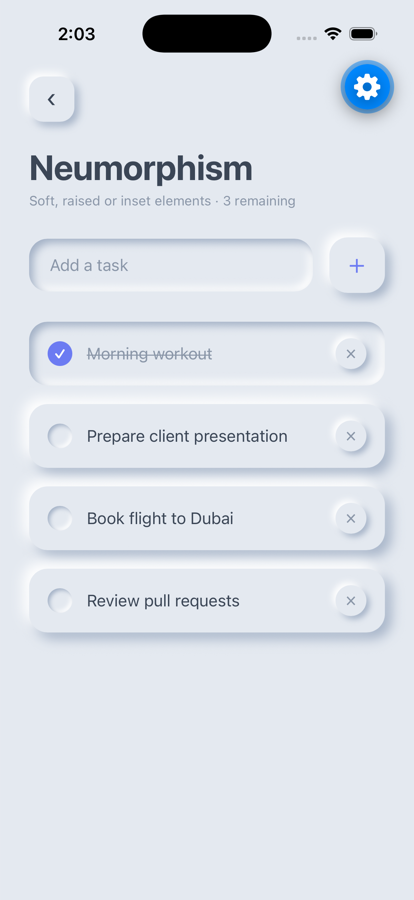
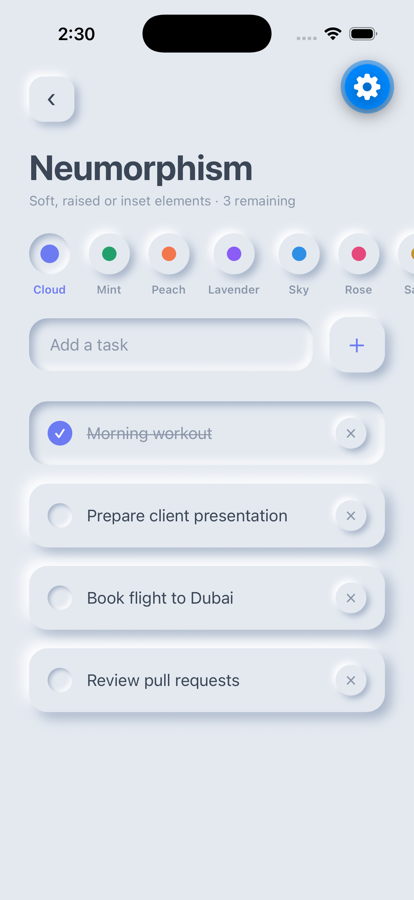
Add 8 color themes to the Neumorphism screen
Add a color picker with Cloud, Mint, Peach, Lavender, Sky, Rose, Sand and Midnight (dark) themes, and document them in the README with screenshots.

diff --git a/mobile/src/designs/Neumorphism.js b/mobile/src/designs/Neumorphism.js
@@ -1,31 +1,37 @@
 // NEUMORPHISM: every element shares the background color; shape comes only from shadows.
 // Raised = light highlight top-left + dark shadow bottom-right
 // Inset  = the same two shadows drawn inside (pressed in)
-import { ActivityIndicator, FlatList, Pressable, StyleSheet, Text, TextInput, View } from 'react-native';
+import { useMemo, useState } from 'react';
+import { ActivityIndicator, FlatList, Pressable, ScrollView, StyleSheet, Text, TextInput, View } from 'react-native';
 import { SafeAreaView } from 'react-native-safe-area-context';
 import { StatusBar } from 'expo-status-bar';
 
-const C = {
-  bg: '#E4E9F0',
-  light: '#FFFFFF',
-  dark: '#A3B1C6',
-  text: '#3B4656',
-  muted: '#8A96A8',
-  accent: '#6C7BF2',
-  error: '#D14343',
-};
+// Each theme needs a background plus a lighter and a darker shade of it for the two shadows.
+export const NEU_THEMES = [
+  { id: 'cloud', name: 'Cloud', bg: '#E4E9F0', light: '#FFFFFF', dark: '#A3B1C6', text: '#3B4656', muted: '#8A96A8', accent: '#6C7BF2' },
+  { id: 'mint', name: 'Mint', bg: '#DDF0E7', light: '#FFFFFF', dark: '#A3C7B6', text: '#2F4F45', muted: '#7A9C8F', accent: '#22A06B' },
+  { id: 'peach', name: 'Peach', bg: '#F6E4D9', light: '#FFFFFF', dark: '#D1B2A0', text: '#5A3E33', muted: '#A3887A', accent: '#F2774B' },
+  { id: 'lavender', name: 'Lavender', bg: '#E8E4F3', light: '#FFFFFF', dark: '#B8AFD1', text: '#423A5C', muted: '#8F87A8', accent: '#8B5CF6' },
+  { id: 'sky', name: 'Sky', bg: '#DCEAF6', light: '#FFFFFF', dark: '#A5BDD3', text: '#2C4459', muted: '#7C93A8', accent: '#2F8FE5' },
+  { id: 'rose', name: 'Rose', bg: '#F5E2E7', light: '#FFFFFF', dark: '#CFAEB8', text: '#5A3442', muted: '#A58592', accent: '#E5487A' },
+  { id: 'sand', name: 'Sand', bg: '#EFE9DD', light: '#FFFFFF', dark: '#C8BEA8', text: '#4D4537', muted: '#998F7B', accent: '#C4922A' },
+  { id: 'midnight', name: 'Midnight', bg: '#2A2E37', light: '#363B47', dark: '#1B1E24', text: '#E4E7EE', muted: '#8A91A0', accent: '#7C8CFF', isDark: true },
+];
 
-const raised = (d = 6) => ({
-  boxShadow: `${-d}px ${-d}px ${d * 2}px ${C.light}, ${d}px ${d}px ${d * 2}px ${C.dark}`,
-});
-const inset = (d = 4) => ({
-  boxShadow: `inset ${d}px ${d}px ${d * 2}px ${C.dark}, inset ${-d}px ${-d}px ${d * 2}px ${C.light}`,
+const makeShadows = (t) => ({
+  raised: (d = 6) => ({ boxShadow: `${-d}px ${-d}px ${d * 2}px ${t.light}, ${d}px ${d}px ${d * 2}px ${t.dark}` }),
+  inset: (d = 4) => ({ boxShadow: `inset ${d}px ${d}px ${d * 2}px ${t.dark}, inset ${-d}px ${-d}px ${d * 2}px ${t.light}` }),
 });
 
 export default function Neumorphism({ todos, text, setText, loading, error, addTodo, toggleTodo, deleteTodo, remaining, name, tagline, onBack }) {
+  const [themeId, setThemeId] = useState('cloud');
+  const t = NEU_THEMES.find((x) => x.id === themeId) ?? NEU_THEMES[0];
+  const { raised, inset } = useMemo(() => makeShadows(t), [t]);
+  const styles = useMemo(() => makeStyles(t, inset), [t, inset]);
+
   return (
     <SafeAreaView style={styles.container}>
-      <StatusBar style="dark" />
+      <StatusBar style={t.isDark ? 'light' : 'dark'} />
 
       <View style={styles.topRow}>
         <Pressable onPress={onBack}>
@@ -42,13 +48,28 @@ export default function Neumorphism({ todos, text, setText, loading, error, addT
         <Text style={styles.count}>{tagline} · {remaining} remaining</Text>
       </View>
 
+      {/* Color theme picker: the selected swatch is pressed in */}
+      <ScrollView horizontal showsHorizontalScrollIndicator={false} style={styles.themesBar} contentContainerStyle={styles.themes}>
+        {NEU_THEMES.map((theme) => {
+          const selected = theme.id === t.id;
+          return (
+            <Pressable key={theme.id} onPress={() => setThemeId(theme.id)} style={styles.themeItem}>
+              <View style={[styles.swatch, selected ? inset(3) : raised(4)]}>
+                <View style={[styles.swatchDot, { backgroundColor: theme.accent }, selected && styles.swatchDotSelected]} />
+              </View>
+              <Text style={[styles.themeName, selected && { color: t.accent }]}>{theme.name}</Text>
+            </Pressable>
+          );
+        })}
+      </ScrollView>
+
       <View style={styles.inputRow}>
         <TextInput
           style={styles.input}
           value={text}
           onChangeText={setText}
           placeholder="Add a task"
-          placeholderTextColor={C.muted}
+          placeholderTextColor={t.muted}
           returnKeyType="done"
           onSubmitEditing={addTodo}
         />
@@ -64,7 +85,7 @@ export default function Neumorphism({ todos, text, setText, loading, error, addT
       {error && <Text style={styles.error}>{error}</Text>}
 
       {loading ? (
-        <ActivityIndicator color={C.muted} style={{ marginTop: 32 }} />
+        <ActivityIndicator color={t.muted} style={{ marginTop: 32 }} />
       ) : (
         <FlatList
           data={todos}
@@ -96,28 +117,36 @@ export default function Neumorphism({ todos, text, setText, loading, error, addT
   );
 }
 
-const styles = StyleSheet.create({
-  container: { flex: 1, backgroundColor: C.bg },
-  topRow: { paddingHorizontal: 28, paddingTop: 12 },
-  backBtn: { width: 44, height: 44, borderRadius: 14, backgroundColor: C.bg, alignItems: 'center', justifyContent: 'center' },
-  backText: { fontSize: 26, color: C.text, marginTop: -3 },
-  header: { marginTop: 24, marginBottom: 28, paddingHorizontal: 28 },
-  heading: { fontSize: 34, fontWeight: '700', color: C.text, letterSpacing: -0.5 },
-  count: { fontSize: 13, color: C.muted, marginTop: 4 },
-  inputRow: { flexDirection: 'row', alignItems: 'center', gap: 16, paddingHorizontal: 28, marginBottom: 6 },
-  input: { flex: 1, fontSize: 16, color: C.text, backgroundColor: C.bg, paddingVertical: 16, paddingHorizontal: 20, borderRadius: 18, ...inset(4) },
-  addBtn: { width: 54, height: 54, borderRadius: 18, backgroundColor: C.bg, alignItems: 'center', justifyContent: 'center' },
-  addText: { fontSize: 28, color: C.accent, fontWeight: '300', marginTop: -2 },
-  error: { color: C.error, fontSize: 13, marginBottom: 8, paddingHorizontal: 28 },
-  list: { paddingHorizontal: 28, paddingTop: 22, paddingBottom: 40, gap: 18 },
-  item: { flexDirection: 'row', alignItems: 'center', backgroundColor: C.bg, borderRadius: 18, paddingVertical: 16, paddingHorizontal: 18 },
-  itemMain: { flex: 1, flexDirection: 'row', alignItems: 'center', gap: 14 },
-  check: { width: 24, height: 24, borderRadius: 12, backgroundColor: C.bg, alignItems: 'center', justifyContent: 'center' },
-  checkDone: { backgroundColor: C.accent },
-  checkMark: { color: '#FFFFFF', fontSize: 13, fontWeight: '700' },
-  title: { flex: 1, fontSize: 16, color: C.text },
-  titleDone: { color: C.muted, textDecorationLine: 'line-through' },
-  deleteBtn: { width: 30, height: 30, borderRadius: 15, backgroundColor: C.bg, alignItems: 'center', justifyContent: 'center', marginLeft: 12 },
-  delete: { fontSize: 18, color: C.muted, marginTop: -2 },
-  empty: { textAlign: 'center', color: C.muted, marginTop: 48, fontSize: 15 },
-});
+const makeStyles = (t, inset) =>
+  StyleSheet.create({
+    container: { flex: 1, backgroundColor: t.bg },
+    topRow: { paddingHorizontal: 28, paddingTop: 12 },
+    backBtn: { width: 44, height: 44, borderRadius: 14, backgroundColor: t.bg, alignItems: 'center', justifyContent: 'center' },
+    backText: { fontSize: 26, color: t.text, marginTop: -3 },
+    header: { marginTop: 24, marginBottom: 8, paddingHorizontal: 28 },
+    heading: { fontSize: 34, fontWeight: '700', color: t.text, letterSpacing: -0.5 },
+    count: { fontSize: 13, color: t.muted, marginTop: 4 },
+    themesBar: { flexGrow: 0 },
+    themes: { paddingHorizontal: 28, paddingVertical: 16, gap: 18 },
+    themeItem: { alignItems: 'center', gap: 8 },
+    swatch: { width: 40, height: 40, borderRadius: 20, backgroundColor: t.bg, alignItems: 'center', justifyContent: 'center' },
+    swatchDot: { width: 14, height: 14, borderRadius: 7 },
+    swatchDotSelected: { width: 18, height: 18, borderRadius: 9 },
+    themeName: { fontSize: 11, fontWeight: '600', color: t.muted },
+    inputRow: { flexDirection: 'row', alignItems: 'center', gap: 16, paddingHorizontal: 28, marginTop: 4, marginBottom: 6 },
+    input: { flex: 1, fontSize: 16, color: t.text, backgroundColor: t.bg, paddingVertical: 16, paddingHorizontal: 20, borderRadius: 18, ...inset(4) },
+    addBtn: { width: 54, height: 54, borderRadius: 18, backgroundColor: t.bg, alignItems: 'center', justifyContent: 'center' },
+    addText: { fontSize: 28, color: t.accent, fontWeight: '300', marginTop: -2 },
+    error: { color: '#D14343', fontSize: 13, marginBottom: 8, paddingHorizontal: 28 },
+    list: { paddingHorizontal: 28, paddingTop: 22, paddingBottom: 40, gap: 18 },
+    item: { flexDirection: 'row', alignItems: 'center', backgroundColor: t.bg, borderRadius: 18, paddingVertical: 16, paddingHorizontal: 18 },
+    itemMain: { flex: 1, flexDirection: 'row', alignItems: 'center', gap: 14 },
+    check: { width: 24, height: 24, borderRadius: 12, backgroundColor: t.bg, alignItems: 'center', justifyContent: 'center' },
+    checkDone: { backgroundColor: t.accent },
+    checkMark: { color: '#FFFFFF', fontSize: 13, fontWeight: '700' },
+    title: { flex: 1, fontSize: 16, color: t.text },
+    titleDone: { color: t.muted, textDecorationLine: 'line-through' },
+    deleteBtn: { width: 30, height: 30, borderRadius: 15, backgroundColor: t.bg, alignItems: 'center', justifyContent: 'center', marginLeft: 12 },
+    delete: { fontSize: 18, color: t.muted, marginTop: -2 },
+    empty: { textAlign: 'center', color: t.muted, marginTop: 48, fontSize: 15 },
+  });

diff --git a/README.md b/README.md
@@ -43,6 +43,27 @@ One full-stack Todo app built in **8 different UI design styles**. Every screen 
 
 > The blue ⚙ button in the screenshots is Expo's development menu. It does not appear in the real app.
 
+## Neumorphism color themes
+
+The Neumorphism screen comes with **8 color themes**, including a dark mode. Switch between them with the color picker at the top of the screen.
+
+<table>
+  <tr>
+    <td align="center"><img src="docs/screenshots/neumorphism/cloud.png" width="200" /><br/><b>Cloud</b></td>
+    <td align="center"><img src="docs/screenshots/neumorphism/mint.png" width="200" /><br/><b>Mint</b></td>
+    <td align="center"><img src="docs/screenshots/neumorphism/peach.png" width="200" /><br/><b>Peach</b></td>
+    <td align="center"><img src="docs/screenshots/neumorphism/lavender.png" width="200" /><br/><b>Lavender</b></td>
+  </tr>
+  <tr>
+    <td align="center"><img src="docs/screenshots/neumorphism/sky.png" width="200" /><br/><b>Sky</b></td>
+    <td align="center"><img src="docs/screenshots/neumorphism/rose.png" width="200" /><br/><b>Rose</b></td>
+    <td align="center"><img src="docs/screenshots/neumorphism/sand.png" width="200" /><br/><b>Sand</b></td>
+    <td align="center"><img src="docs/screenshots/neumorphism/midnight.png" width="200" /><br/><b>Midnight (dark)</b></td>
+  </tr>
+</table>
+
+Each theme is just a few colors in `NEU_THEMES` (`mobile/src/designs/Neumorphism.js`): a background, a lighter and a darker shade of it for the two shadows, plus text and accent colors. To add your own theme, add one more entry to that array.
+
 ## How it works
 
 ```
